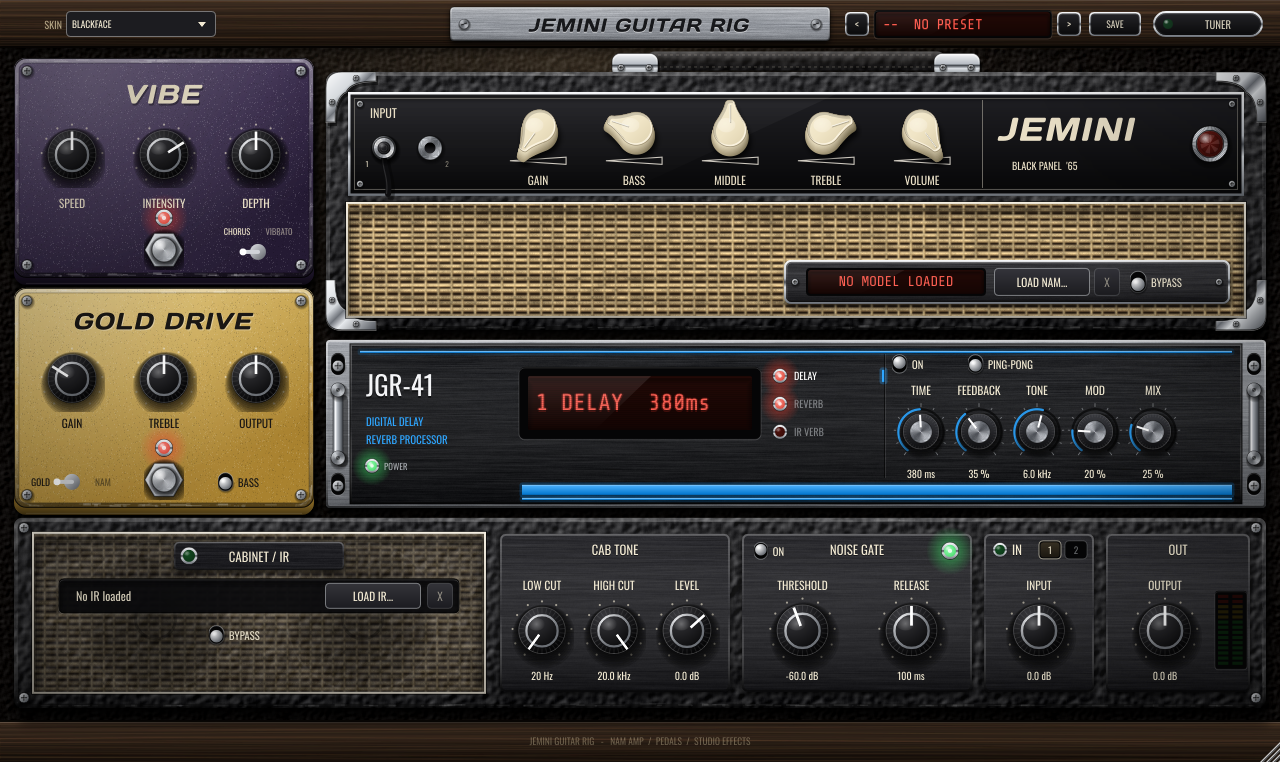
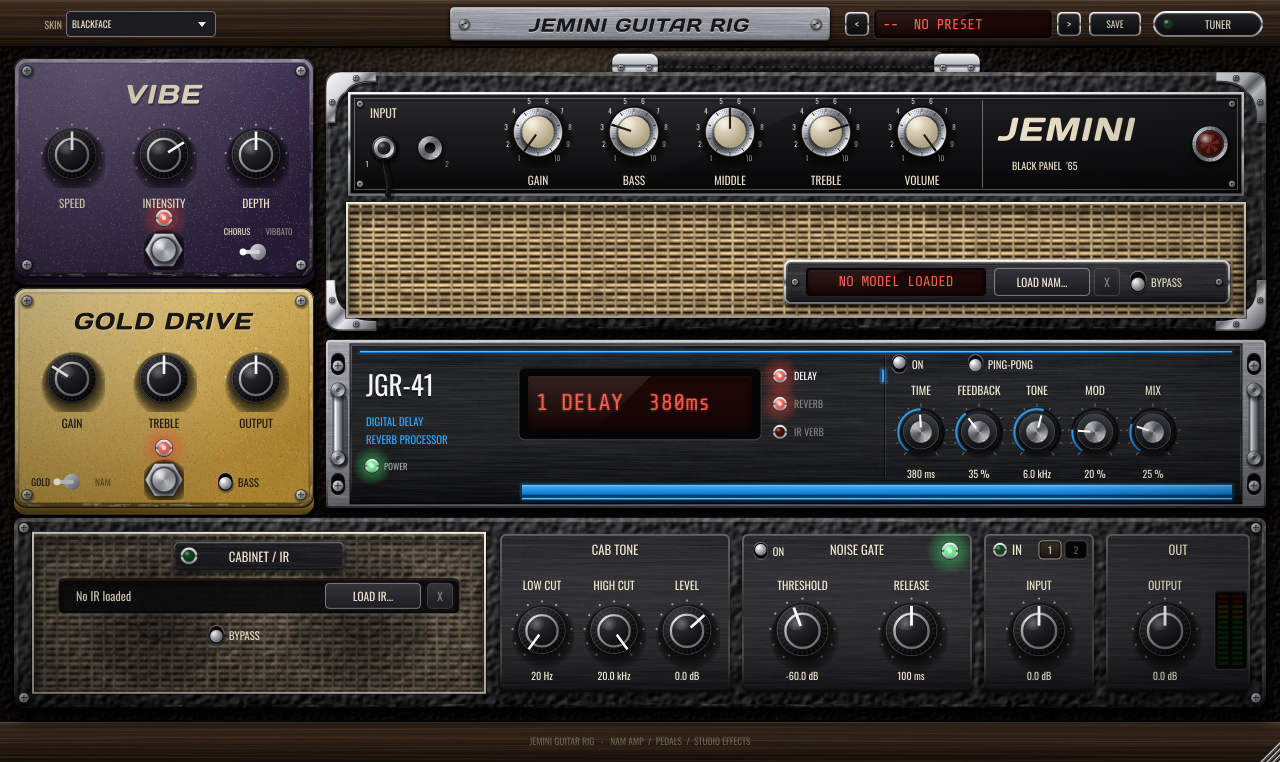
Amp knobs: original skirted knobs with cream caps
Blackface skin goes back to the original numbered silver-skirt knobs,
now with a warm cream cap (brighter gradient for light caps) and a dark
pointer. Chicken-head and aluminium styles remain available in code.

Claude-Session: https://claude.ai/code/session_01Xrv8MNUsFMci2LD7dNoEYZ

Changed region(s): [[0.625, 0.1207, 0.75, 0.2113], [0.4688, 0.1207, 0.5938, 0.2113], [0.375, 0.1207, 0.4375, 0.2113]]

diff --git a/Source/UI/JeminiLookAndFeel.cpp b/Source/UI/JeminiLookAndFeel.cpp
@@ -285,8 +285,9 @@ void JeminiLookAndFeel::drawBlackfaceKnob (juce::Graphics& g, juce::Rectangle<fl
 
     // Black bakelite cap: shadow on the skirt, knurled edge, glossy top
     realism::softShadowEllipse (g, c, capR, capR * 0.25f, { capR * 0.05f, capR * 0.15f }, 0.4f);
-    juce::ColourGradient cap (ampKnobCap.interpolatedWith (juce::Colours::white, 0.25f), c.translated (-capR * 0.4f, -capR * 0.6f),
-                              ampKnobCap.interpolatedWith (juce::Colours::black, 0.6f), c.translated (capR * 0.5f, capR * 0.7f), true);
+    const bool creamCap = ampKnobCap.getPerceivedBrightness() > 0.5f;
+    juce::ColourGradient cap (ampKnobCap.interpolatedWith (juce::Colours::white, creamCap ? 0.45f : 0.25f), c.translated (-capR * 0.4f, -capR * 0.6f),
+                              ampKnobCap.interpolatedWith (juce::Colour (0xff3a2c18), creamCap ? 0.35f : 0.6f), c.translated (capR * 0.5f, capR * 0.7f), true);
     g.setGradientFill (cap);
     g.fillEllipse (juce::Rectangle<float> (capR * 2.0f, capR * 2.0f).withCentre (c));
     g.setColour (juce::Colours::white.withAlpha (0.09f));

diff --git a/Source/UI/Skins.h b/Source/UI/Skins.h
@@ -65,8 +65,7 @@ namespace skins
                 s.piping = juce::Colour (0xfff3ecdc);
                 s.panelTop = juce::Colour (0xff202024); s.panelBottom = juce::Colour (0xff060607);
                 s.panelText = juce::Colour (0xffe9dfc6); s.panelTrim = juce::Colour (0xffb9b4a6);
-                s.knobCap = juce::Colour (0xff0a0a0b); s.knobNumbers = juce::Colour (0xfff2ece0);
-                s.chickenKnobs = true;
+                s.knobCap = juce::Colour (0xffeedfb8); s.knobNumbers = juce::Colour (0xfff2ece0);
                 s.logo = juce::Colour (0xffe9dfc6);
                 s.vibeTop = juce::Colour (0xff4a3a62); s.vibeBottom = juce::Colour (0xff241a33); s.vibeText = juce::Colour (0xffe9dfc6);
                 s.goldTop = juce::Colour (0xffe4c46e); s.goldBottom = juce::Colour (0xffa9822f); s.goldText = juce::Colour (0xff1a1714);
